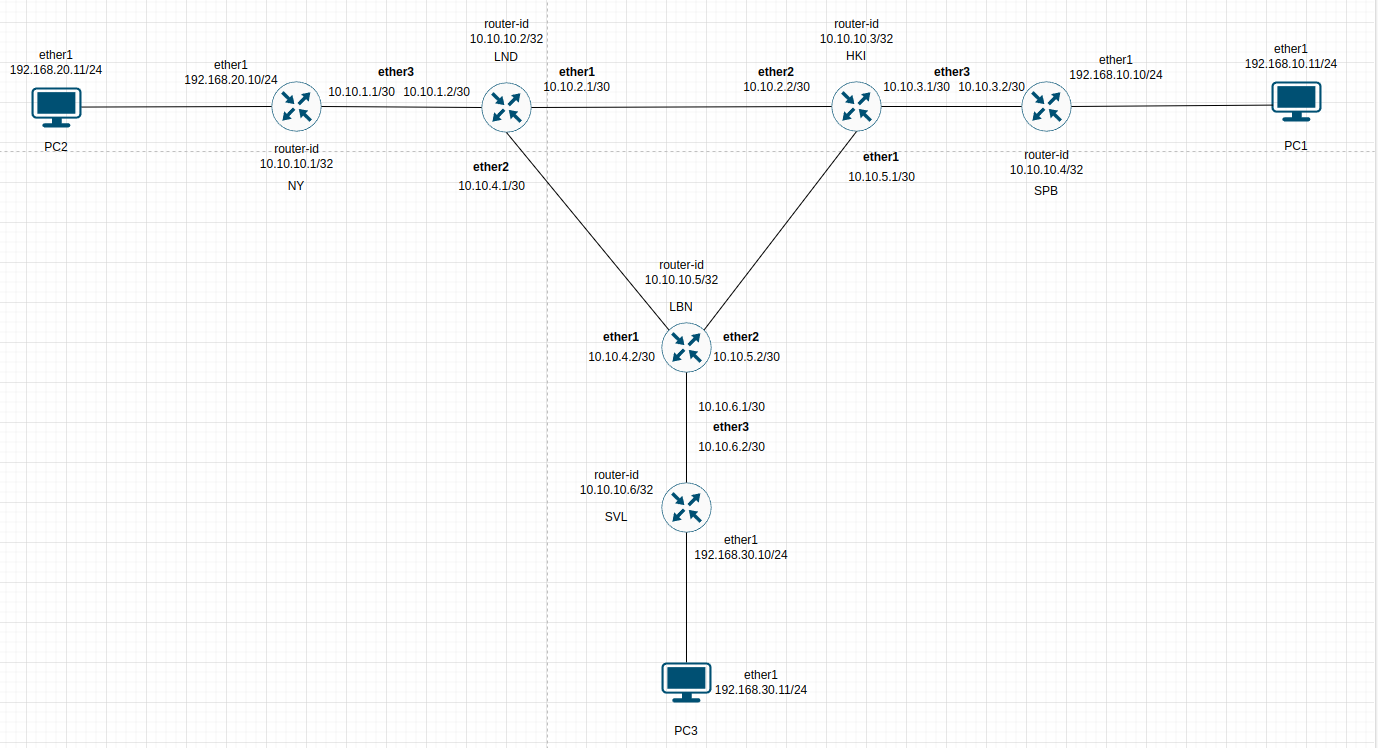
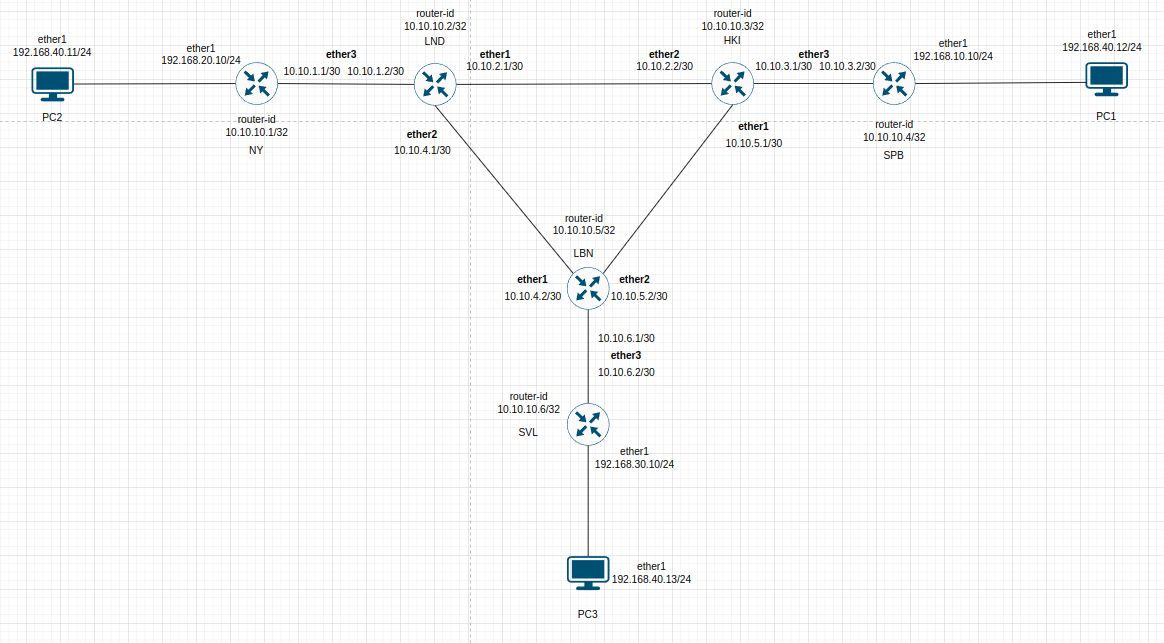
2 part

diff --git a/lab4/lab4_report.md b/lab4/lab4_report.md
@@ -14,7 +14,7 @@ Lab: Lab4
 
 Date of create: 23.12.2022
 
-Date of finished: 26.12.2022
+Date of finished: 16.01.2023
 
 ## Отчёт по лабораторной работе №4 "Эмуляция распределенной корпоративной сети связи, настройка iBGP, организация L3VPN, VPLS"
 
@@ -340,3 +340,68 @@ set name=R01.SVL
 4. Проверка связности между VRF
 
 ![](https://github.com/Antoshik143/2022_2023-introduction_in_routing-k33202-davydov_a_d/blob/main/lab4/Pictures/VRF.png "VRF")
+
+5. Настройка VPLS (конфигурации устройств)
+
+* PC1
+
+```
+# jan/10/2023 11:37:43 by RouterOS 6.47.9
+# software id = 
+#
+#
+#
+/interface wireless security-profiles
+set [ find default=yes ] supplicant-identity=MikroTik
+/ip address
+add address=172.31.255.30/30 interface=ether1 network=172.31.255.28
+add address=192.168.40.12/24 interface=ether2 network=192.168.40.0
+/ip dhcp-client
+add disabled=no interface=ether1
+/system identity
+set name=PC1
+```
+
+* PC2
+
+```
+# jan/10/2023 11:39:21 by RouterOS 6.47.9
+# software id = 
+#
+#
+#
+/interface wireless security-profiles
+set [ find default=yes ] supplicant-identity=MikroTik
+/ip address
+add address=172.31.255.30/30 interface=ether1 network=172.31.255.28
+add address=192.168.40.11/24 interface=ether2 network=192.168.40.0
+/ip dhcp-client
+add disabled=no interface=ether1
+/system identity
+set name=PC2
+```
+
+* PC3
+
+```
+# jan/10/2023 11:40:26 by RouterOS 6.47.9
+# software id = 
+#
+#
+#
+/interface wireless security-profiles
+set [ find default=yes ] supplicant-identity=MikroTik
+/ip address
+add address=172.31.255.30/30 interface=ether1 network=172.31.255.28
+add address=192.168.40.13/24 interface=ether2 network=192.168.40.0
+/ip dhcp-client
+add disabled=no interface=ether1
+/system identity
+set name=PC3
+```
+
+* R01.NY
+* R01.SPB
+* R01.SVL
+
+
